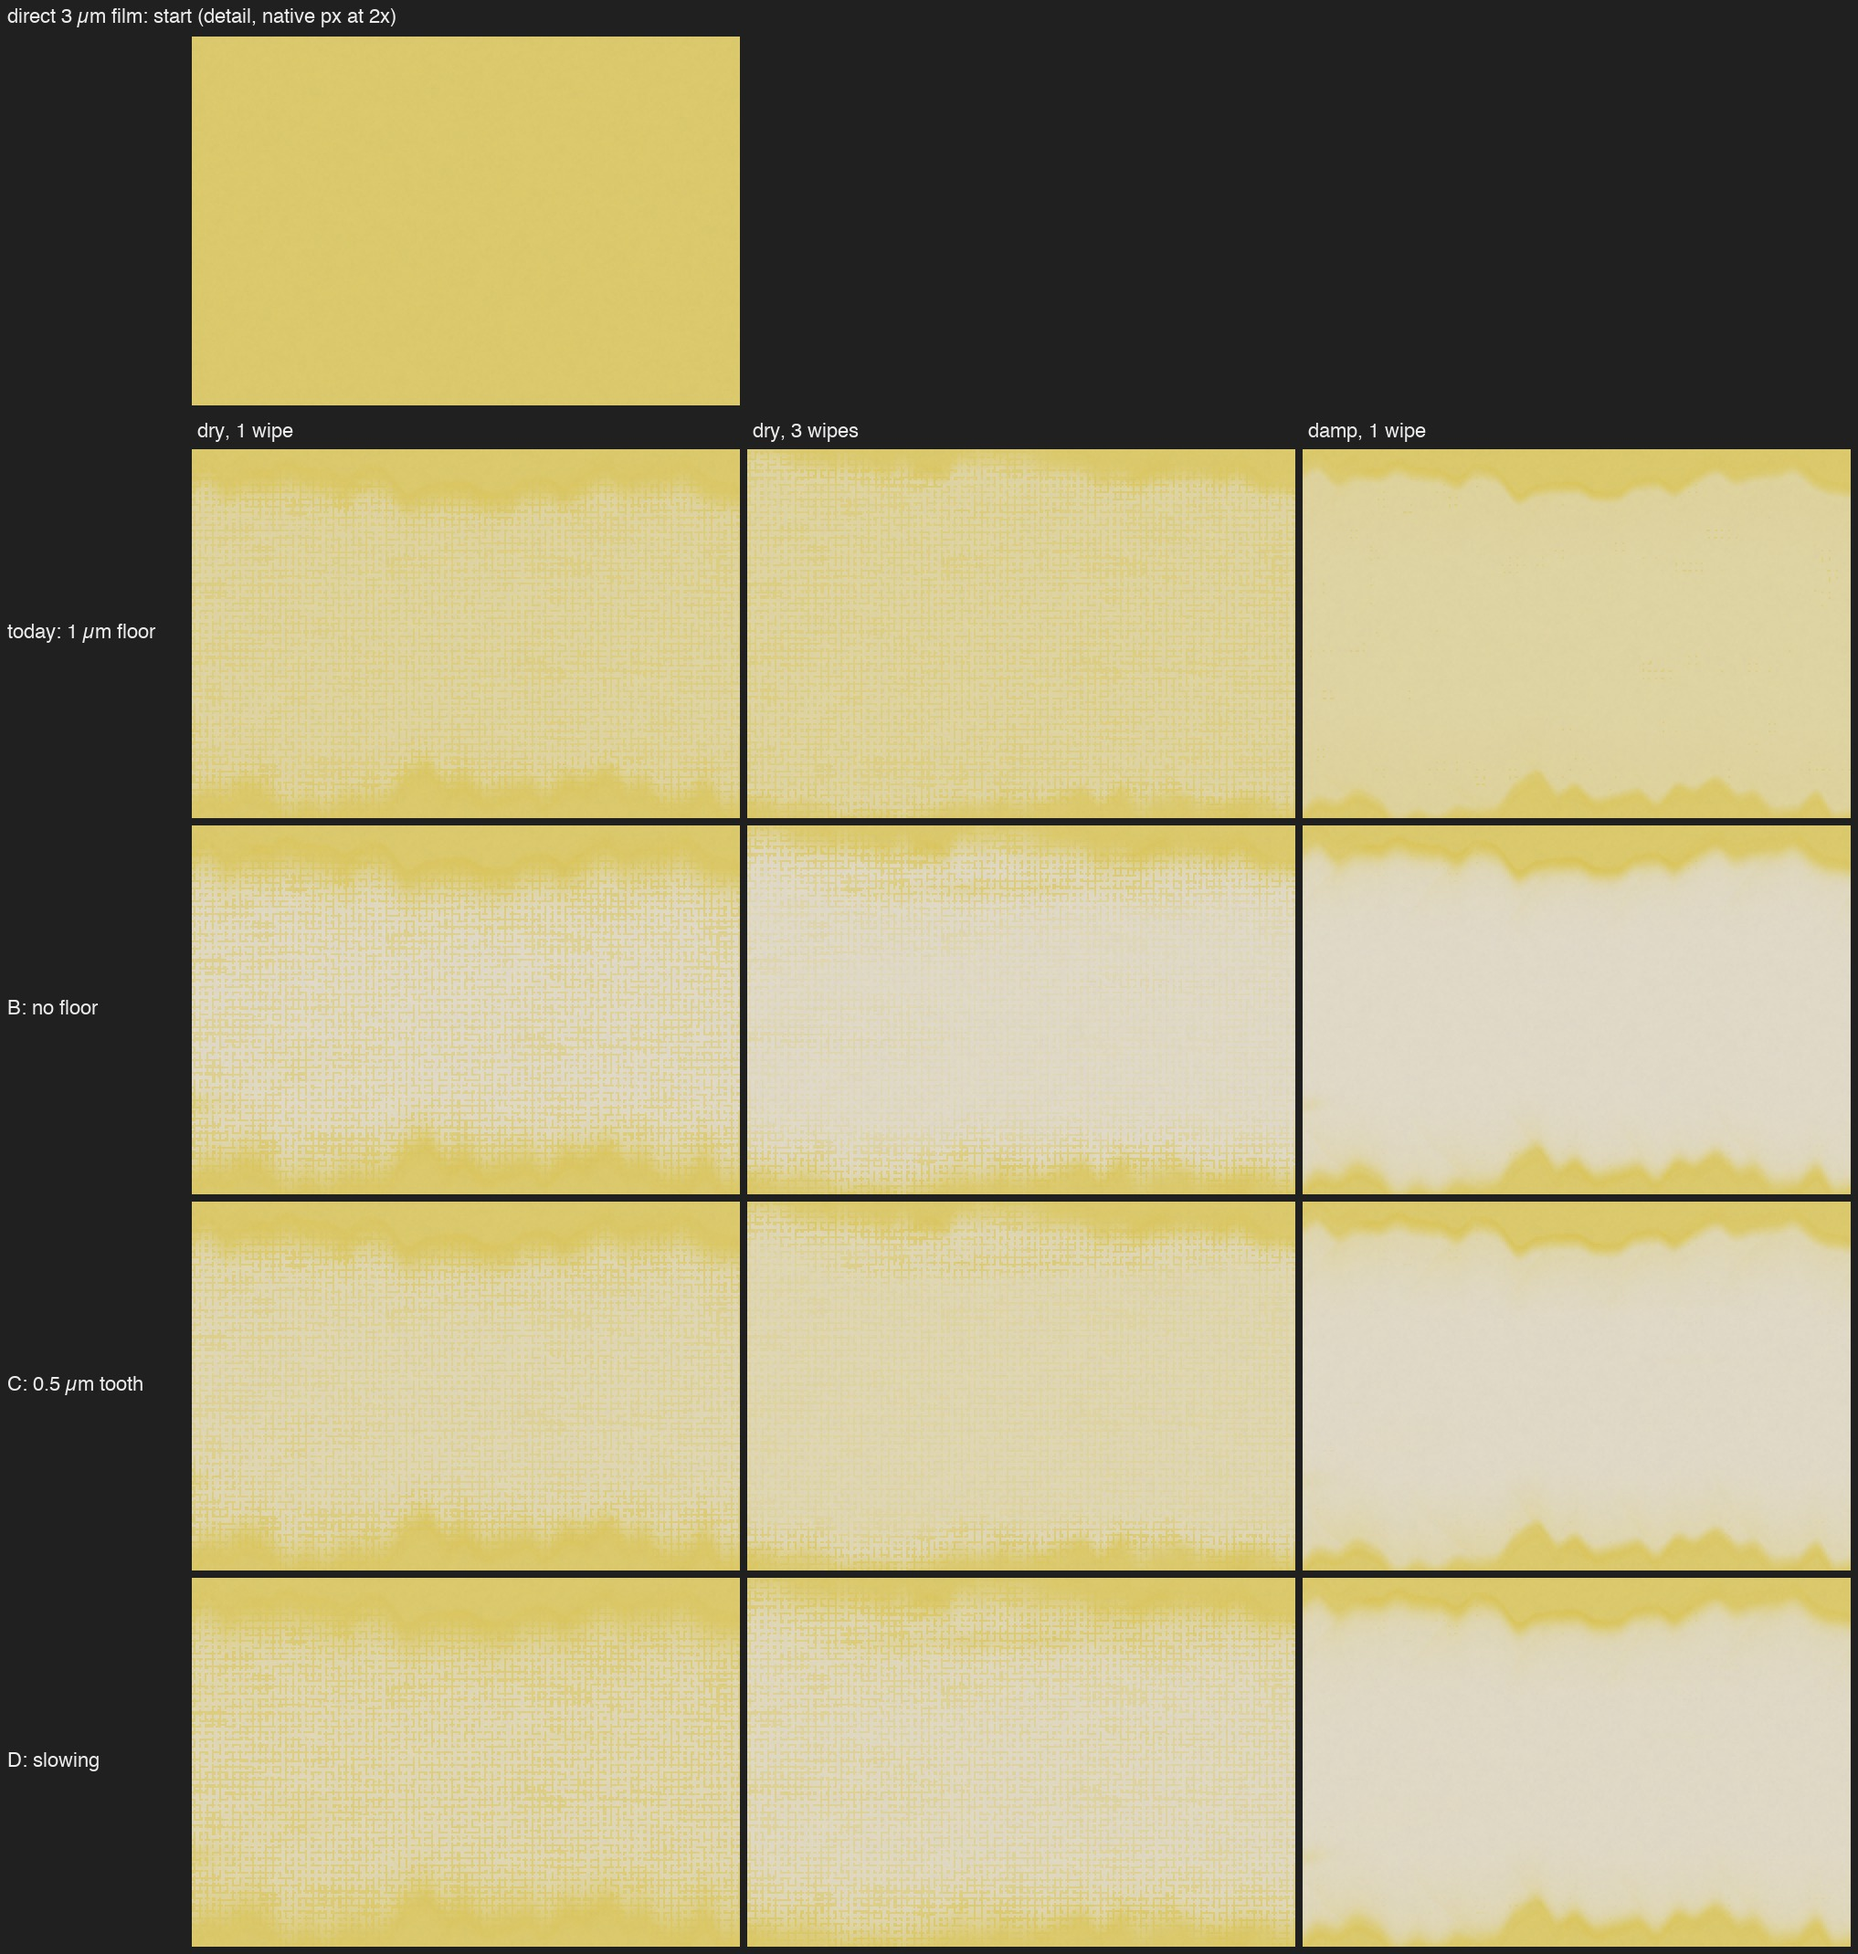
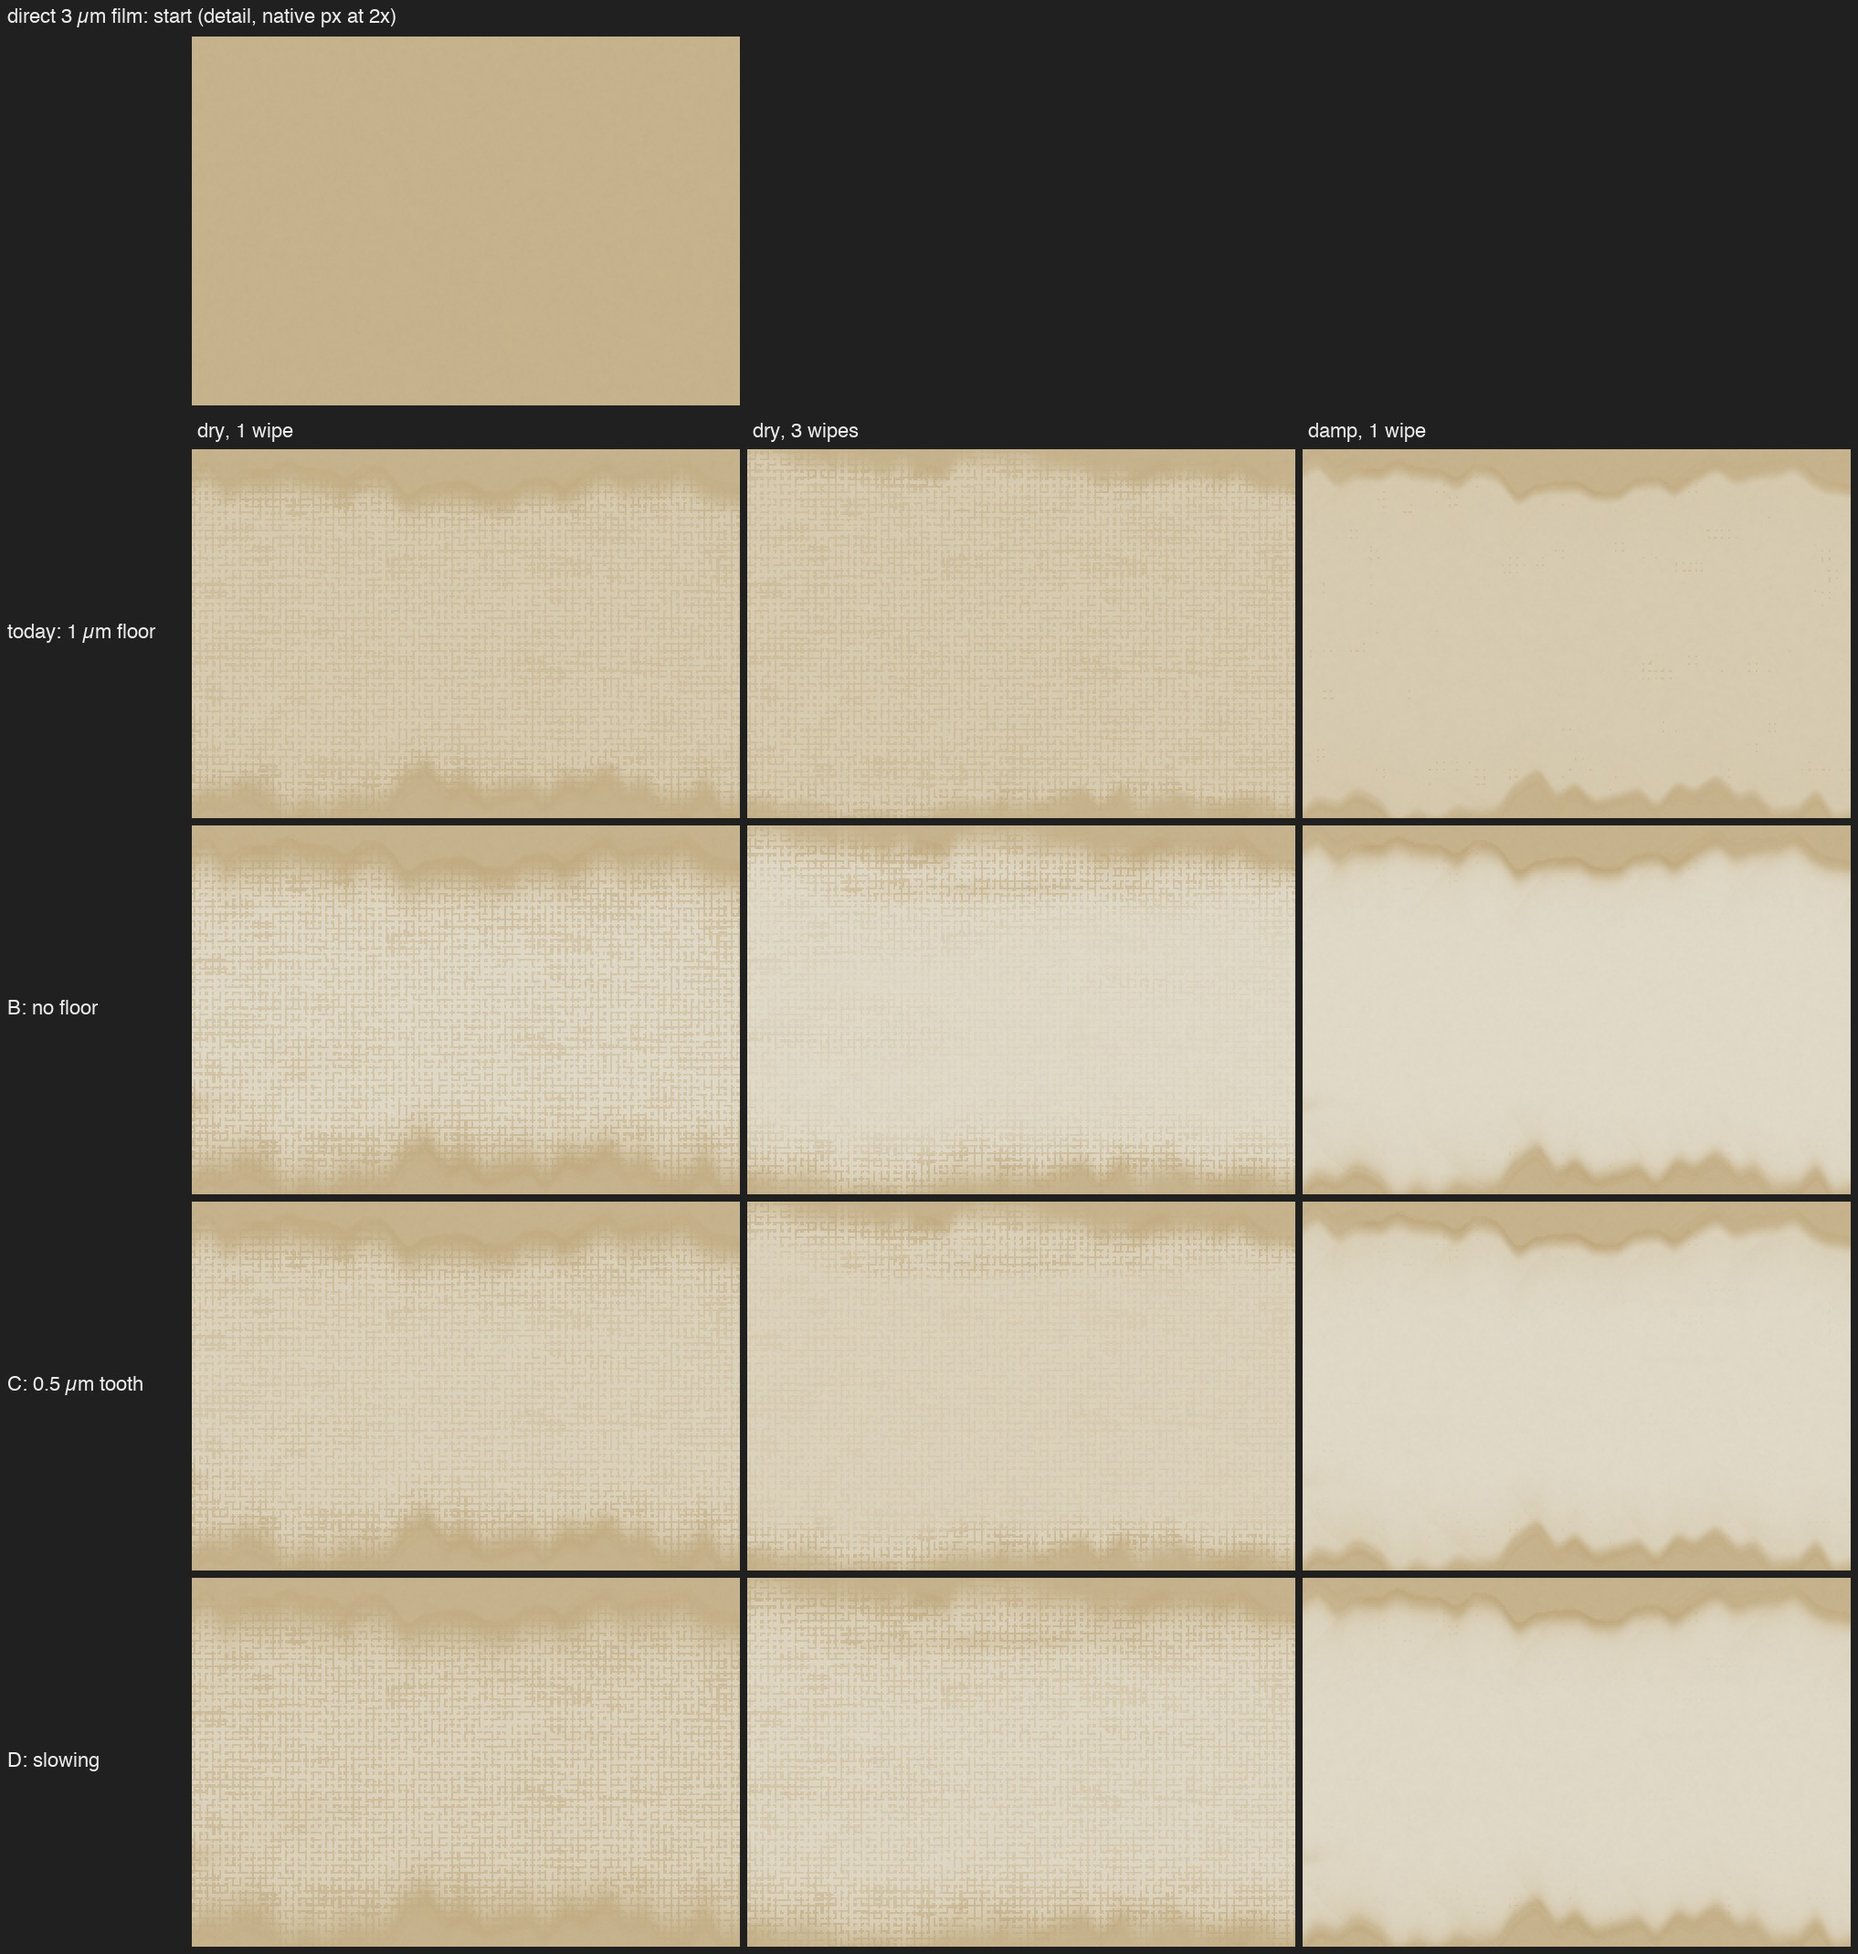
rag thin-film experiment: raw umber renders, a plain-language page, the technical page beside it

Changed region(s): [[0.0929, 0.0, 1.0, 0.4626], [0.0929, 0.771, 1.0, 1.0], [0.0929, 0.5551, 1.0, 0.6785]]

diff --git a/notes/rag/thin-experiment/index.html b/notes/rag/thin-experiment/index.html
@@ -1,48 +1,30 @@
-<!doctype html><html lang="en"><meta charset="utf-8"><meta name="viewport" content="width=device-width,initial-scale=1"><title>Rag: thin-film residue rules</title><style>body{max-width:1900px;margin:24px auto;padding:0 20px;background:#202020;color:#eee;font:17px/1.5 system-ui}a{color:#c9defa}img{max-width:100%}h2{margin-top:40px}pre{font-size:13px;overflow:auto}</style>
-<h1>Rag: what a wipe leaves of a thin film</h1>
-<p>Same canvas (2400 px, 440 mm, linen 15 threads/cm, thin ground), raw sienna, same path, seed and pressure 0.8; damp = dipped 0.5. Rows: today's 1 µm floor; B no floor; C a 0.5 µm tooth that only spirits lift; D removal slowing as the film thins (half speed at 1 µm dry), spirits shrink the slowing. Working size is the painted area at half size; detail is native pixels at 2x.</p>
-<h2>Brush wash, thinner 0.5</h2><a href="wash05-work.jpg"><img src="wash05-work.jpg"></a><a href="wash05-detail.jpg"><img src="wash05-detail.jpg"></a>
-<h2>Direct 1 µm film</h2><a href="film1-work.jpg"><img src="film1-work.jpg"></a><a href="film1-detail.jpg"><img src="film1-detail.jpg"></a>
-<h2>Direct 3 µm film</h2><a href="film3-work.jpg"><img src="film3-work.jpg"></a><a href="film3-detail.jpg"><img src="film3-detail.jpg"></a>
-<h2>Film left in the wipe's middle (µm)</h2><p>"plateau" = share of pixels on the most common value (0.02 µm bins).</p><pre>
-rag::tests::thin::experiment, 2400 px, engine 3, linen 15 threads/cm; film left (µm) in the wipe's middle
-=== film1: start p5 1.00 p25 1.00 p50 1.00 p75 1.00 p95 1.00 plateau 100%
-Floor  dry1:  -0.0% off, p5 1.00 p25 1.00 p50 1.00 p75 1.00 p95 1.00 plateau 100% (bal 2e-11)
-Floor  dry3:  -0.0% off, p5 1.00 p25 1.00 p50 1.00 p75 1.00 p95 1.00 plateau 100% (bal 1e-10)
-Floor damp1:  -0.0% off, p5 1.00 p25 1.00 p50 1.00 p75 1.00 p95 1.00 plateau 100% (bal 2e-11)
-Zero  dry1:  78.6% off, p5 0.01 p25 0.01 p50 0.04 p75 0.47 p95 0.59 plateau 28% (bal 1e-9)
-Zero  dry3:  93.9% off, p5 0.00 p25 0.00 p50 0.00 p75 0.12 p95 0.23 plateau 63% (bal 1e-9)
-Zero damp1:  99.0% off, p5 0.00 p25 0.00 p50 0.00 p75 0.00 p95 0.02 plateau 93% (bal 6e-9)
-Fixed  dry1:  31.3% off, p5 0.50 p25 0.50 p50 0.50 p75 1.00 p95 1.00 plateau 62% (bal 8e-10)
-Fixed  dry3:  31.5% off, p5 0.50 p25 0.50 p50 0.50 p75 1.00 p95 1.00 plateau 62% (bal 9e-10)
-Fixed damp1:  94.8% off, p5 0.02 p25 0.02 p50 0.03 p75 0.05 p95 0.14 plateau 42% (bal 5e-9)
-Soft  dry1:  48.0% off, p5 0.30 p25 0.31 p50 0.37 p75 0.80 p95 0.85 plateau 33% (bal 4e-9)
-Soft  dry3:  68.2% off, p5 0.12 p25 0.13 p50 0.17 p75 0.57 p95 0.67 plateau 25% (bal 6e-9)
-Soft damp1:  93.3% off, p5 0.04 p25 0.05 p50 0.05 p75 0.06 p95 0.13 plateau 60% (bal 9e-9)
-=== film3: start p5 3.00 p25 3.00 p50 3.00 p75 3.00 p95 3.00 plateau 100%
-Floor  dry1:  53.8% off, p5 1.00 p25 1.00 p50 1.00 p75 2.00 p95 2.00 plateau 60% (bal 1e-9)
-Floor  dry3:  54.3% off, p5 1.00 p25 1.00 p50 1.00 p75 2.00 p95 2.00 plateau 62% (bal 2e-9)
-Floor damp1:  66.2% off, p5 1.00 p25 1.00 p50 1.00 p75 1.00 p95 1.01 plateau 95% (bal 7e-9)
-Zero  dry1:  78.8% off, p5 0.03 p25 0.03 p50 0.11 p75 1.41 p95 1.78 plateau 21% (bal 1e-8)
-Zero  dry3:  94.0% off, p5 0.00 p25 0.00 p50 0.00 p75 0.35 p95 0.70 plateau 61% (bal 1e-8)
-Zero damp1:  99.0% off, p5 0.00 p25 0.00 p50 0.00 p75 0.00 p95 0.05 plateau 88% (bal 2e-8)
-Fixed  dry1:  70.0% off, p5 0.50 p25 0.50 p50 0.50 p75 1.41 p95 1.78 plateau 58% (bal 2e-8)
-Fixed  dry3:  77.1% off, p5 0.50 p25 0.50 p50 0.50 p75 1.00 p95 1.00 plateau 62% (bal 3e-8)
-Fixed damp1:  97.5% off, p5 0.02 p25 0.03 p50 0.03 p75 0.06 p95 0.19 plateau 47% (bal 3e-8)
-Soft  dry1:  62.7% off, p5 0.43 p25 0.45 p50 0.61 p75 2.00 p95 2.24 plateau 22% (bal 2e-8)
-Soft  dry3:  80.9% off, p5 0.13 p25 0.15 p50 0.21 p75 1.12 p95 1.46 plateau 22% (bal 2e-8)
-Soft damp1:  96.9% off, p5 0.05 p25 0.05 p50 0.05 p75 0.07 p95 0.18 plateau 37% (bal 4e-9)
-=== wash05: start p5 1.19 p25 2.12 p50 2.91 p75 3.73 p95 4.73 plateau 1%
-Floor  dry1:  53.6% off, p5 1.00 p25 1.00 p50 1.00 p75 2.00 p95 2.17 plateau 58% (bal 1e-8)
-Floor  dry3:  54.8% off, p5 1.00 p25 1.00 p50 1.00 p75 2.00 p95 2.00 plateau 60% (bal 2e-8)
-Floor damp1:  65.6% off, p5 1.00 p25 1.00 p50 1.00 p75 1.00 p95 1.01 plateau 93% (bal 2e-8)
-Zero  dry1:  78.9% off, p5 0.02 p25 0.03 p50 0.11 p75 1.18 p95 2.17 plateau 21% (bal 2e-8)
-Zero  dry3:  94.0% off, p5 0.00 p25 0.00 p50 0.00 p75 0.33 p95 0.75 plateau 61% (bal 4e-8)
-Zero damp1:  99.1% off, p5 0.00 p25 0.00 p50 0.00 p75 0.00 p95 0.04 plateau 88% (bal 6e-9)
-Fixed  dry1:  69.3% off, p5 0.50 p25 0.50 p50 0.50 p75 1.18 p95 2.17 plateau 58% (bal 1e-8)
-Fixed  dry3:  76.6% off, p5 0.50 p25 0.50 p50 0.50 p75 1.00 p95 1.00 plateau 62% (bal 2e-8)
-Fixed damp1:  97.5% off, p5 0.02 p25 0.03 p50 0.03 p75 0.06 p95 0.19 plateau 47% (bal 8e-8)
-Soft  dry1:  63.0% off, p5 0.35 p25 0.45 p50 0.59 p75 1.69 p95 2.77 plateau 6% (bal 3e-9)
-Soft  dry3:  81.0% off, p5 0.13 p25 0.15 p50 0.21 p75 1.03 p95 1.58 plateau 18% (bal 4e-9)
-Soft damp1:  96.9% off, p5 0.05 p25 0.05 p50 0.05 p75 0.07 p95 0.18 plateau 39% (bal 3e-8)
-</pre></html>
+<!doctype html><html lang="en"><meta charset="utf-8"><meta name="viewport" content="width=device-width,initial-scale=1"><title>Rag: four ways to wipe a thin wash</title>
+<style>body{max-width:1500px;margin:24px auto;padding:0 20px;background:#1e1e1e;color:#eee;font:18px/1.55 system-ui}a{color:#c9defa}img{max-width:100%;display:block;margin:8px 0}h1{font-size:30px}h2{font-size:24px;margin:0 0 6px}.card{background:#2a2a2a;border-radius:10px;padding:18px 22px;margin:26px 0}.what{background:#25313d}p{max-width:950px;margin:6px 0}.n{display:inline-block;background:#c9defa;color:#111;border-radius:50%;width:32px;height:32px;text-align:center;line-height:32px;font-weight:700;margin-right:8px}</style>
+<h1>Wiping a thin wash with a rag: four versions</h1>
+<p>A thin brown wash (raw umber, thinned half with spirits) is brushed over the canvas. Then a rag is dragged once across the middle, left to right. Everything is the same in all four versions except one rule: <b>how hard it is for the rag to get the last bit of paint off</b>.</p>
+<p>Each row shows: the wash before, after one wipe with a dry rag, after three wipes with a dry rag, and after one wipe with a rag dipped in spirits.</p>
+
+<div class="card what"><h2>What a real rag does (from painting guides)</h2>
+<p>• A <b>dry</b> rag lifts most of a thin wash but leaves a <b>pale tint</b>. Wiping again makes it a bit lighter.<br>
+• A rag <b>dampened with spirits</b> takes it much closer to the bare canvas.<br>
+• It should look like cloth on paint: soft, a bit uneven, not a flat cut-out.</p>
+<p>So the question for each version: does it look like that?</p></div>
+
+<div class="card"><h2><span class="n">1</span>Today: a fixed stain that never comes off</h2>
+<p>The rag can never get below a set thickness of paint, dry or damp. Spirits don't help.</p>
+<a href="simple-Floor.jpg"><img src="simple-Floor.jpg"></a><a href="simple-Floor-close.jpg"><img src="simple-Floor-close.jpg"></a></div>
+
+<div class="card"><h2><span class="n">2</span>No limit: the rag can take everything</h2>
+<p>Whatever the cloth touches, it takes its share of, however thin. The only stain left is where the cloth missed.</p>
+<a href="simple-Zero.jpg"><img src="simple-Zero.jpg"></a><a href="simple-Zero-close.jpg"><img src="simple-Zero-close.jpg"></a></div>
+
+<div class="card"><h2><span class="n">3</span>The canvas keeps a little; spirits get it out</h2>
+<p>The canvas surface holds on to a thin layer. A dry rag can't touch that layer; a damp rag can.</p>
+<a href="simple-Fixed.jpg"><img src="simple-Fixed.jpg"></a><a href="simple-Fixed-close.jpg"><img src="simple-Fixed-close.jpg"></a></div>
+
+<div class="card"><h2><span class="n">4</span>The last bit gets harder and harder; spirits make it easier</h2>
+<p>No hard limit. The thinner the paint gets, the slower it comes off, so a dry rag leaves a tint that fades with more wiping. Spirits make the last bit come off much more easily.</p>
+<a href="simple-Soft.jpg"><img src="simple-Soft.jpg"></a><a href="simple-Soft-close.jpg"><img src="simple-Soft-close.jpg"></a></div>
+
+<p style="opacity:.7">Settings: 2400 px canvas, 440 mm wide, linen, rag about 44 mm wide, pressure 0.8. Versions 3 and 4 use guessed numbers (0.5 µm and 1 µm); they can be tuned. <a href="technical.html">Technical page with all numbers</a>.</p>
+</html>

diff --git a/notes/rag/thin-experiment/technical.html b/notes/rag/thin-experiment/technical.html
@@ -1,3 +1,9 @@
+<!doctype html><html lang="en"><meta charset="utf-8"><title>Rag thin-film experiment: technical</title><style>body{max-width:1900px;margin:24px auto;padding:0 20px;background:#202020;color:#eee;font:16px/1.5 system-ui}img{max-width:100%}pre{font-size:13px}</style>
+<p><a href="index.html">back</a>. Rows: 1 today's floor, 2 no floor (B), 3 0.5 µm tooth (C), 4 slowing (D). Raw umber.</p>
+<h2>Brush wash, thinner 0.5</h2><img src="wash05-work.jpg"><img src="wash05-detail.jpg">
+<h2>Direct 1 µm film</h2><img src="film1-work.jpg"><img src="film1-detail.jpg">
+<h2>Direct 3 µm film</h2><img src="film3-work.jpg"><img src="film3-detail.jpg">
+<h2>Film left in the wipe's middle (µm)</h2><pre>
 rag::tests::thin::experiment, raw umber, 2400 px, engine 3, linen 15 threads/cm; film left (µm) in the wipe's middle
 === film1: start p5 1.00 p25 1.00 p50 1.00 p75 1.00 p95 1.00 plateau 100%
 Floor  dry1:  -0.0% off, p5 1.00 p25 1.00 p50 1.00 p75 1.00 p95 1.00 plateau 100% (bal 2e-11)
@@ -38,3 +44,4 @@ Fixed damp1:  97.5% off, p5 0.02 p25 0.03 p50 0.03 p75 0.06 p95 0.19 plateau 47%
 Soft  dry1:  63.0% off, p5 0.35 p25 0.45 p50 0.59 p75 1.69 p95 2.77 plateau 6% (bal 3e-9)
 Soft  dry3:  81.0% off, p5 0.13 p25 0.15 p50 0.21 p75 1.03 p95 1.58 plateau 18% (bal 4e-9)
 Soft damp1:  96.9% off, p5 0.05 p25 0.05 p50 0.05 p75 0.07 p95 0.18 plateau 39% (bal 3e-8)
+</pre></html>

diff --git a/notes/rag/thin-experiment/page.py b/notes/rag/thin-experiment/page.py
@@ -1,0 +1,58 @@
+# /// script
+# dependencies = ["pillow"]
+# ///
+"""Plain-language page for the thin-film rag experiment.
+
+    uv run notes/rag/thin-experiment/page.py <png dir> <out dir>
+
+Uses the brush-wash start (wash05) of rag::tests::thin::experiment. For each
+rule: one strip of the painted area (before, dry x1, dry x3, damp x1) and a
+close-up of dry x3 and damp x1.
+"""
+import sys
+from pathlib import Path
+
+from PIL import Image, ImageDraw, ImageFont
+
+src, dst = Path(sys.argv[1]), Path(sys.argv[2])
+dst.mkdir(parents=True, exist_ok=True)
+PX, X0, Y0 = 2.4, 260.0, 190.0
+
+
+def box(u0, v0, u1, v1):
+    return tuple(round(t) for t in ((u0 - X0) * PX, (v0 - Y0) * PX, (u1 - X0) * PX, (v1 - Y0) * PX))
+
+
+WORK = box(280, 260, 720, 420)
+CLOSE = box(450, 300, 550, 380)
+try:
+    font = ImageFont.truetype("/System/Library/Fonts/Helvetica.ttc", 26)
+except OSError:
+    font = ImageFont.load_default()
+
+
+def img(name, area, scale):
+    im = Image.open(src / f"{name}.png").convert("RGB").crop(area)
+    return im.resize((round(im.width * scale), round(im.height * scale)), Image.LANCZOS if scale < 1 else Image.NEAREST)
+
+
+def strip(cells, path):
+    w, h = cells[0][1].size
+    gap, top = 10, 40
+    out = Image.new("RGB", (len(cells) * (w + gap) - gap, h + top), (32, 32, 32))
+    d = ImageDraw.Draw(out)
+    for k, (label, im) in enumerate(cells):
+        x = k * (w + gap)
+        d.text((x + 4, 6), label, fill=(240, 240, 240), font=font)
+        out.paste(im, (x, top))
+    out.save(path, quality=92)
+
+
+RULES = ["Floor", "Zero", "Fixed", "Soft"]
+for r in RULES:
+    strip([("before", img("wash05-start", WORK, 0.5)), ("dry rag, 1 wipe", img(f"wash05-{r}-dry1", WORK, 0.5)),
+           ("dry rag, 3 wipes", img(f"wash05-{r}-dry3", WORK, 0.5)), ("damp rag, 1 wipe", img(f"wash05-{r}-damp1", WORK, 0.5))],
+          dst / f"simple-{r}.jpg")
+    strip([("close-up: dry rag, 3 wipes", img(f"wash05-{r}-dry3", CLOSE, 3)), ("close-up: damp rag, 1 wipe", img(f"wash05-{r}-damp1", CLOSE, 3))],
+          dst / f"simple-{r}-close.jpg")
+print("written", dst)

diff --git a/crates/paint/src/rag.rs b/crates/paint/src/rag.rs
@@ -1396,7 +1396,8 @@ mod tests {
 
         pub fn sienna() -> Paint {
             let pal = Palette::named_box("inness").unwrap();
-            let i = pal.tubes.iter().position(|t| t.name == "raw sienna").unwrap();
+            let name = std::env::var("RAG_EXP_TUBE").unwrap_or_else(|_| "raw sienna".into());
+            let i = pal.tubes.iter().position(|t| t.name == name).unwrap();
             pal.pile(vec![(i, 1.0)]).laid(0.0)
         }
 
